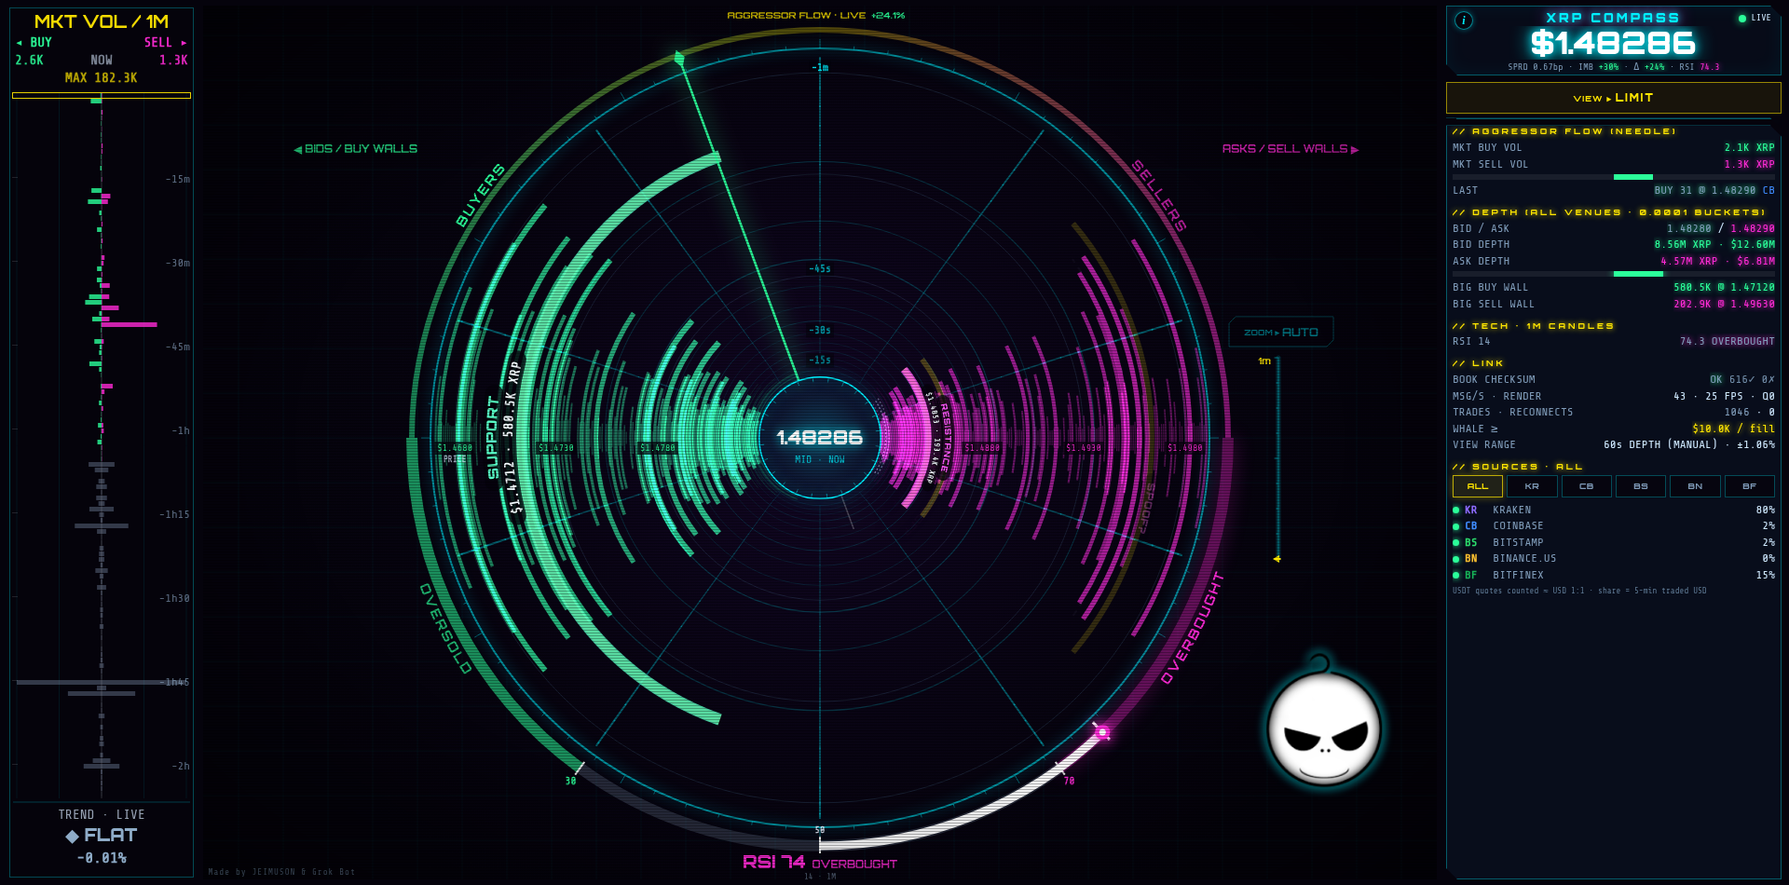
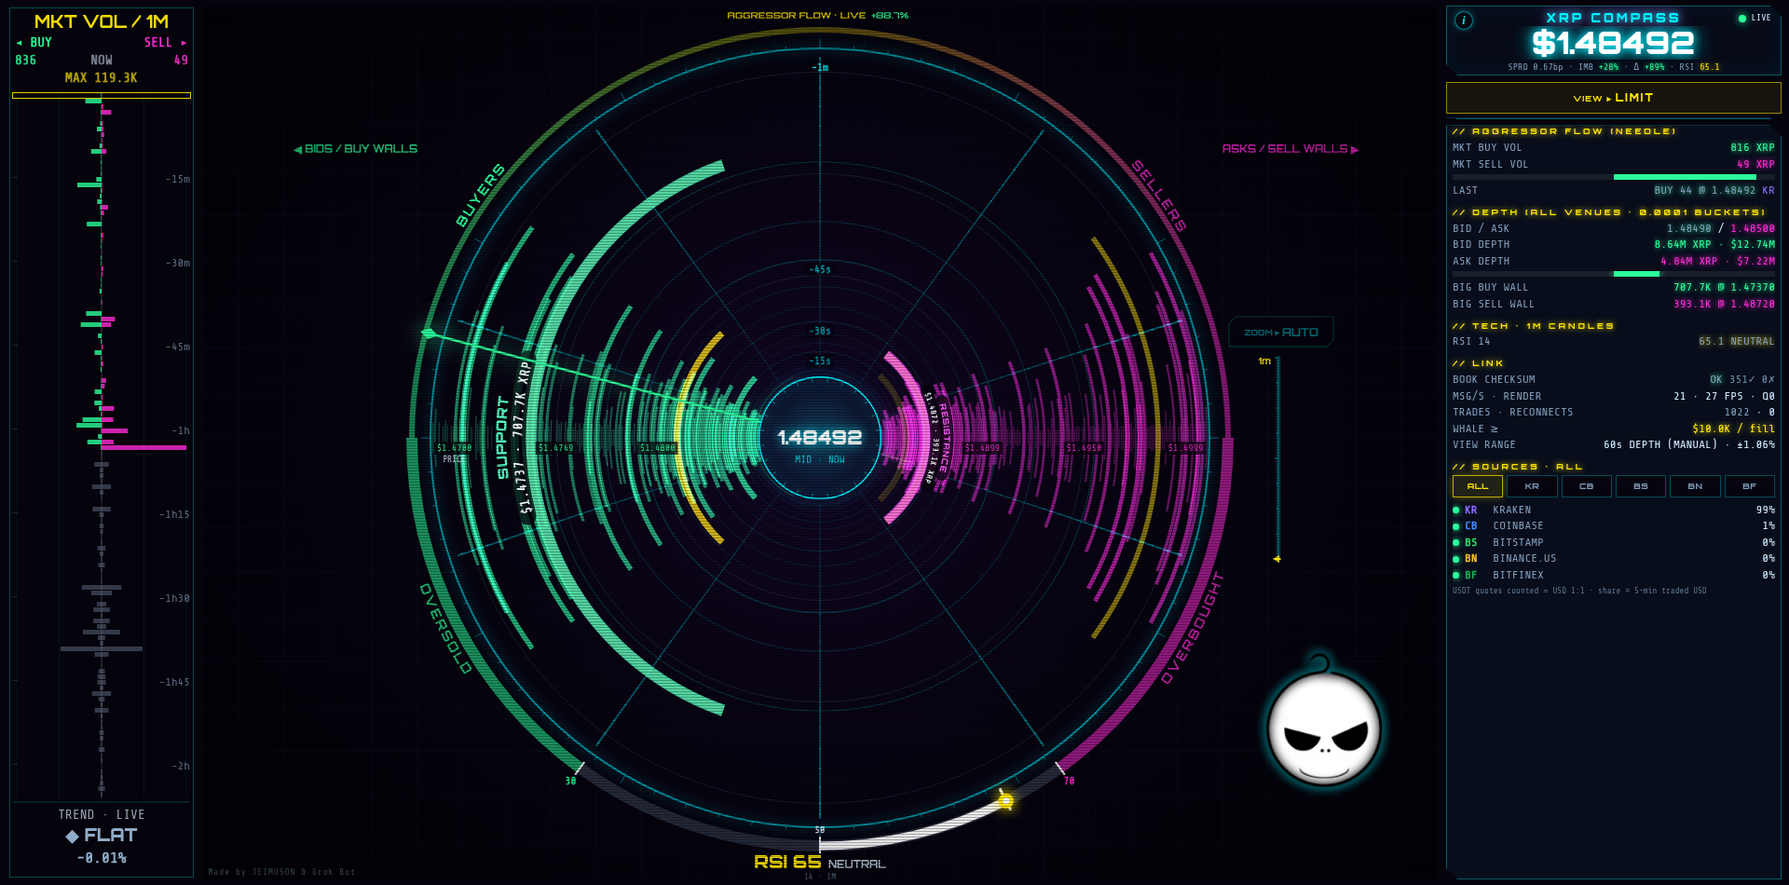
MARKET wall badges: nearest buy/sell wall only (build 20261002-1937)

diff --git a/index.html b/index.html
@@ -3,7 +3,7 @@
 <head>
 <meta charset="utf-8">
 <meta http-equiv="Cache-Control" content="no-cache, no-store, must-revalidate"><meta http-equiv="Pragma" content="no-cache"><meta http-equiv="Expires" content="0">
-<script>window.OFC_BUILD='20261002-1911';(function(){try{if(!/^https?:/.test(location.protocol))return;fetch(location.pathname+'?_='+Date.now(),{cache:'no-store'}).then(r=>r.text()).then(t=>{const m=t.match(/OFC_BUILD='([^']+)'/);if(m&&m[1]!==window.OFC_BUILD&&sessionStorage.getItem('ofcB')!==m[1]){sessionStorage.setItem('ofcB',m[1]);location.replace(location.pathname+'?v='+m[1]+location.hash);}}).catch(()=>{});}catch(e){}})();</script>
+<script>window.OFC_BUILD='20261002-1937';(function(){try{if(!/^https?:/.test(location.protocol))return;fetch(location.pathname+'?_='+Date.now(),{cache:'no-store'}).then(r=>r.text()).then(t=>{const m=t.match(/OFC_BUILD='([^']+)'/);if(m&&m[1]!==window.OFC_BUILD&&sessionStorage.getItem('ofcB')!==m[1]){sessionStorage.setItem('ofcB',m[1]);location.replace(location.pathname+'?v='+m[1]+location.hash);}}).catch(()=>{});}catch(e){}})();</script>
 <meta name="viewport" content="width=device-width,initial-scale=1,viewport-fit=cover,user-scalable=no">
 <meta name="theme-color" content="#05030c">
 <meta name="color-scheme" content="dark">
@@ -165,7 +165,7 @@ body.hublogo #top .logo{display:none}   /* mobile: logo lives in the compass hub
  <li>Trail swings <b>out</b> = price up, <b>in</b> = price down.</li>
  <li><b class="gr">Green</b> = buyers, <b class="rd">red</b> = sellers. Thicker trail = more volume.</li>
  <li><b>Flares</b> mark the spots with the heaviest trading.</li>
- <li><b>Ghost walls</b> = the biggest limit walls: glowing lines where trades at their price would land, or edge chevrons (top = above, bottom = below, with % distance) when outside the scale. They flare when hit, flash when eaten, go dashed when pulled.</li></ul>
+ <li><b>Wall badges</b> = the nearest big buy wall (bottom) and sell wall (top) with their distance from price; they pulse as price nears, flare when hit, show EATEN / PULLED and hand off to the next wall. In range, the wall also glows as a line across the spiral.</li></ul>
  <h3>LIMIT VIEW · ORDER-BOOK WALLS</h3>
  <ul><li>Arcs are <b>walls</b> of waiting orders: <b class="gr">buyers left</b>, <b class="rd">sellers right</b>.</li>
  <li>Distance from the middle = distance from the current price.</li>
@@ -1434,7 +1434,7 @@ function drawTrailFlares(now){
 }
 function trailDom(){ // current dominant aggressor side over the last ~10s of the trail (-1 sell .. +1 buy)
   let b=0,x=0;for(let a=0;a<Math.min(10,trail.length);a++){b+=trail[a].bs||0;x+=trail[a].ss||0;}return b+x>0?(b-x)/(b+x):0;}
-let GWS=new Map(),GWT=0;   // MARKET ghost-wall state
+let GWS=new Map(),GWT=0,GB={bid:null,ask:null};   // MARKET ghost-wall state
 function drawTrail(now){
   if(!trail.length||!dispMid)return;
   const span=dispMid*dispRange, px2=(RMAX-R0)/span, sEnd=FOCAL/(FOCAL+HIST_SEC);
@@ -1478,54 +1478,57 @@ function drawTrail(now){
   // in the spiral's own geometry: the locus where trades AT that price would land (same angle/depth/price mapping as the trail), over the
   // newest half-turn, under the spiral. Hidden when the price sits outside the current price scale (offset saturated).
   // Trades at the price -> flare; EATEN (classifier) -> short break flash; PULLED -> fades out as a dashed ghost.
-  if(BREADY&&sortedB.length&&sortedA.length){const tN=performance.now(),dnow=Date.now(),tol=BUCK/2+mid*0.00002;let maxq=1e-9;for(const L of [sortedB,sortedA])for(const x of L)if(x[1]>maxq)maxq=x[1];
+  if(BREADY&&sortedB.length&&sortedA.length){const tN=performance.now(),dnow=Date.now(),tol=BUCK/2+mid*0.00002;
     const sT0=FOCAL/(FOCAL+TURN*DZ),L0=Math.max(2,0.55*RMAX*KO*(1-sT0)),vis=X=>Math.abs((X-P0)/BSP*RMAX*KO*0.22/L0),live=new Set(),dt=GWT?Math.min(0.1,(tN-GWT)/1000):0;GWT=tN;
-    // top 3 per side >= 25% of the biggest level; each side's biggest wall always kept so every side is represented
-    for(const [side,lv] of [['bid',sortedB],['ask',sortedA]])topBySize(lv,3).forEach(([px,q],i)=>{if(i>0&&q<0.25*maxq)return;const k=side+'|'+px;live.add(k);
-      let G=GWS.get(k);if(!G){G={side,px,q,a:0,fl:0,br:-1e9,pull:-1e9,evT:tN};GWS.set(k,G);}G.q=q;});
-    for(const o of SPF.ev){if(o.kind!=='eaten'&&o.kind!=='pulled')continue;const G=GWS.get(o.side+'|'+o.px);if(G&&o.tt>G.evT){G.evT=o.tt;if(o.kind==='eaten')G.br=o.tt;else G.pull=o.tt;}}
-    const A2=Math.max(2,Math.min(AMAX,MWIN*0.5)),NC=8,sc=Math.max(1,RMAX/380),EDG={bid:[],ask:[]};
-    for(const [k,G] of GWS){const on=live.has(k),pulled=tN-G.pull<3000,brk=tN-G.br<800;
-      G.a+=((on&&!pulled?1:0)-G.a)*(1-Math.exp(-dt/(on?0.5:pulled?1.2:0.35)));
+    // significant = LIMIT topWalls rule (top 3 by size per side); track ONLY the nearest of those per side (by price distance)
+    const TW={bid:topBySize(sortedB,3),ask:topBySize(sortedA,3)};let maxq=1e-9;for(const sd of ['bid','ask'])for(const x of TW[sd])maxq=Math.max(maxq,x[1]);
+    for(const side of ['bid','ask']){let best=null;for(const [px,q] of TW[side]){const d=Math.abs(px-P0);if(!best||d<best.d)best={px,q,d};}if(!best)continue;
+      const k=side+'|'+best.px;live.add(k);let G=GWS.get(k);if(!G){G={side,px:best.px,q:best.q,a:0,fl:0,br:-1e9,pull:-1e9,evT:tN,off:0,wasT:tN};GWS.set(k,G);}G.q=best.q;G.off=0;G.wasT=tN;
+      const dp=Math.abs(best.px-P0)/P0*100;let B=GB[side];if(!B)B=GB[side]={dd:dp,a:0,rel:0,ev:null,evt:-1e9};B.px=best.px;B.q=best.q;B.dp=dp;B.G=G;}
+    // classifier events (EATEN/PULLED) hit the wall's line and, if it was this side's tracked wall, its badge; tracking hands off to the next nearest
+    for(const o of SPF.ev){if(o.kind!=='eaten'&&o.kind!=='pulled')continue;const G=GWS.get(o.side+'|'+o.px);if(G&&o.tt>G.evT){G.evT=o.tt;if(o.kind==='eaten')G.br=o.tt;else G.pull=o.tt;
+      const B=GB[G.side];if(B&&o.tt-G.wasT<8000){B.ev=o.kind;B.evt=o.tt;}}}
+    const A2=Math.max(2,Math.min(AMAX,MWIN*0.5)),NC=8,sc=Math.max(1,RMAX/330);
+    for(const [k,G] of GWS){const on=live.has(k);if(!on&&!G.off)G.off=tN;const pulled=tN-G.pull<3000,brk=tN-G.br<800;
+      G.a+=((on&&!pulled?1:0)-G.a)*(1-Math.exp(-dt/(on?0.5:pulled?1.2:0.45)));
       let hv=0;for(let i=trades.length-1;i>=0;i--){const t=trades[i];if(t.t<dnow-1200)break;if((G.side==='bid'?t.side==='sell':t.side==='buy')&&Math.abs(t.px-G.px)<=tol)hv+=t.qty;}
       const ft=Math.min(1,hv/(0.08*G.q+1e-9));G.fl+=(ft-G.fl)*(ft>G.fl?0.35:1-Math.exp(-dt/0.6));
-      if(!on&&G.a<0.01&&!brk&&!pulled){GWS.delete(k);continue;}
-      const v=vis(G.px),va=Math.max(0,Math.min(1,(1.3-v)/0.3));G.v=v;G.A=0;G.E=0;
-      const rel=Math.sqrt(Math.min(1,G.q/maxq)),bu=brk?1-(tN-G.br)/800:0,c=G.side==='bid'?COL.bid:COL.ask;
-      const A0=Math.max(G.a,pulled?Math.max(0,1-(tN-G.pull)/3000):0,bu),pd=pulled&&!on;
+      if(!on&&tN-G.off>6000&&!brk&&!pulled){GWS.delete(k);continue;}   // kept a few s after hand-off so a late EATEN/PULLED verdict still lands
+      const v=vis(G.px),va=Math.max(0,Math.min(1,(1.3-v)/0.3));G.v=v;G.A=0;if(va<=0)continue;
+      const rel=Math.sqrt(Math.min(1,G.q/maxq)),bu=brk?1-(tN-G.br)/800:0,c=G.side==='bid'?COL.bid:COL.ask,pd=pulled&&!on;
+      const A=va*Math.max(G.a,pulled?Math.max(0,1-(tN-G.pull)/3000):0,bu);G.A=A;if(A<=0.01)continue;
       const col=pd?[215,200,255]:brk?[Math.min(255,c[0]+110),Math.min(255,c[1]+110),Math.min(255,c[2]+110)]:c;
-      if(va<1&&A0>0.01)EDG[(G.px>=P0)?'ask':'bid'].push({G,A:A0*(1-va),rel,bu,pd,col,c});   // outside the scale -> clamped edge chevron
-      const A=va*A0;G.A=A;if(A<=0.01)continue;
       const pts=[];for(let f=0;f<=A2+1e-6;f+=0.5)pts.push([f,pt(f,G.px)]);
       ctx.save();ctx.lineCap='round';
       if(pd){ctx.setLineDash([6*sc,6*sc]);ctx.lineDashOffset=-tN/45;}else if(brk){ctx.setLineDash([10*(1-bu)+3,7+12*(1-bu)]);}
       const lw=Math.max(2,(1.5+3*rel+4*G.fl+6*bu)*sc);
-      for(const [wm,am,gl] of [[3.2,0.22,0],[1,1,1]]){ctx.lineWidth=lw*wm;   // soft glow band, then the core line
+      for(const [wm,am,gl] of [[3.2,0.22,0],[1,1,1]]){ctx.lineWidth=lw*wm;   // soft glow band, then the core line (under the spiral)
         if(gl&&Q>0){ctx.shadowColor=rgba(c,0.9);ctx.shadowBlur=(6+18*Math.max(G.fl,bu))*sc;}
         for(let ci=0;ci<NC;ci++){const i0=Math.floor(ci*(pts.length-1)/NC),i1=Math.floor((ci+1)*(pts.length-1)/NC);if(i1<=i0)continue;const fm=pts[(i0+i1)>>1][0],um=pts[(i0+i1)>>1][1].u;
           const al=am*A*(0.3+0.3*rel+0.45*G.fl+0.6*bu)*Math.pow(um,0.5)*Math.pow(Math.max(0,1-fm/A2),0.45);if(al<=0.004)continue;
           ctx.strokeStyle=rgba(col,Math.min(0.95,al).toFixed(3));ctx.beginPath();ctx.moveTo(pts[i0][1].x,pts[i0][1].y);for(let i=i0+1;i<=i1;i++)ctx.lineTo(pts[i][1].x,pts[i][1].y);ctx.stroke();}}
-      {const ti=Math.min(pts.length-1,Math.max(1,Math.round(pts.length*0.18))),p=pts[ti][1];   // small size tag on the line
-        ctx.setLineDash([]);ctx.shadowBlur=0;ctx.font=`${Math.round(9*sc)}px "Share Tech Mono",monospace`;ctx.textAlign='center';ctx.textBaseline='middle';
-        ctx.fillStyle=rgba(col,Math.min(0.85,A*(0.55+0.3*rel+0.3*G.fl)).toFixed(3));ctx.fillText(fmtUSD(G.q*G.px),p.x,p.y-8*sc);}
       ctx.restore();}
-    // clamped edge indicators: walls beyond the scale sit as glowing chevrons just inside the outer ring,
-    // asks/above-price at the top edge (right of NOW), bids/below-price at the bottom edge; nearest first; brightness falls with distance
-    for(const sd of ['ask','bid']){const L=EDG[sd].sort((a,b)=>Math.abs(a.G.px-P0)-Math.abs(b.G.px-P0)),up=sd==='ask',step=Math.max(0.075,28/RMAX),a0=Math.max(0.16,36/RMAX);
-      L.forEach((o,k)=>{const {G,rel,bu,pd,col,c}=o,d=(G.px-P0)/P0*100,ad=Math.abs(d),fall=0.5+0.5*Math.exp(-ad/0.8);
-        const al=Math.min(1,o.A*(0.55+0.35*rel+0.5*G.fl+0.6*bu)*fall*(k===0?1:0.8));G.E=+al.toFixed(2);if(al<0.02)return;
-        const th=up?-Math.PI/2+a0+step*k:Math.PI/2+a0+step*k,nx=Math.cos(th),ny=Math.sin(th),tx=-ny,ty=nx,r=RMAX*0.95,cx=CX+nx*r,cy=CY+ny*r;
-        const sz=(5+5*rel+4*G.fl+5*bu)*sc;
-        ctx.save();if(Q>0){ctx.shadowColor=rgba(c,0.95);ctx.shadowBlur=(8+16*Math.max(G.fl,bu))*sc;}
-        const P=(a,b)=>[cx+nx*a+tx*b,cy+ny*a+ty*b],T=P(sz,0),W1=P(-sz*0.45,sz*0.95),N=P(-sz*0.05,0),W2=P(-sz*0.45,-sz*0.95);
-        const path=()=>{ctx.beginPath();ctx.moveTo(...T);ctx.lineTo(...W1);ctx.lineTo(...N);ctx.lineTo(...W2);ctx.closePath();};
-        if(pd){ctx.setLineDash([3*sc,3*sc]);ctx.lineWidth=1.4*sc;ctx.strokeStyle=rgba(col,al.toFixed(3));path();ctx.stroke();}
-        else{ctx.fillStyle=rgba(col,(al*0.85).toFixed(3));path();ctx.fill();ctx.lineWidth=1*sc;ctx.strokeStyle=rgba([Math.min(255,col[0]+70),Math.min(255,col[1]+70),Math.min(255,col[2]+70)],al.toFixed(3));ctx.stroke();}
-        if(bu>0){ctx.lineWidth=2*sc;ctx.strokeStyle=rgba([255,255,255],(bu*0.8).toFixed(3));ctx.beginPath();ctx.arc(cx,cy,sz*(1.2+1.6*(1-bu)),0,Math.PI*2);ctx.stroke();}
-        if(k===0||RMAX>250){ctx.shadowBlur=0;ctx.font=`${Math.round(9*sc)}px "Share Tech Mono",monospace`;ctx.textAlign='center';ctx.textBaseline='middle';
-          const txt=(d>=0?'+':'\u2212')+ad.toFixed(ad<1?2:1)+'%'+(RMAX>250?' '+fmtUSD(G.q*G.px):''),tp=P(-(5+5*rel)*sc-9*sc-k*11*sc,0);
-          ctx.fillStyle=rgba(col,Math.min(0.95,al+0.1).toFixed(3));ctx.fillText(txt,tp[0],tp[1]);}
-        ctx.restore();});}
+    // one badge per side just inside the outer ring: sell wall top (right of NOW), buy wall bottom (left); distance inside the capsule
+    const rr=(x,y,w,h)=>{const r=h/2;ctx.beginPath();ctx.moveTo(x+r,y);ctx.lineTo(x+w-r,y);ctx.arc(x+w-r,y+r,r,-Math.PI/2,Math.PI/2);ctx.lineTo(x+r,y+h);ctx.arc(x+r,y+r,r,Math.PI/2,Math.PI*1.5);ctx.closePath();};
+    for(const side of ['ask','bid']){const B=GB[side];if(!B||!B.G)continue;const G=B.G,up=side==='ask',c=up?COL.ask:COL.bid;
+      B.dd+=(B.dp-B.dd)*(1-Math.exp(-dt/0.25));B.a+=(1-B.a)*(1-Math.exp(-dt/0.4));B.rel+=(Math.sqrt(Math.min(1,B.q/maxq))-B.rel)*(1-Math.exp(-dt/0.4));
+      const evA=B.ev&&tN-B.evt<1400?1-(tN-B.evt)/1400:0,ek=evA>0?B.ev:null,fl=G.fl||0;
+      const prox=Math.max(0,Math.min(1,1-((G.v||9)-0.6)/4)),pul=0.5+0.5*Math.sin(tN/1000*Math.PI*(1.2+2.8*prox));   // pulse quickens/strengthens as price nears
+      const s2=sc*(0.9+0.25*B.rel),h=Math.round(18*s2),fz=Math.round(11.5*s2);ctx.font=`${fz}px "Share Tech Mono",monospace`;
+      const txt=ek?(ek==='eaten'?'EATEN':'PULLED'):B.dd.toFixed(B.dd<1?2:1)+'%',w=Math.ceil(ctx.measureText(txt).width+h*1.45);
+      const R=RMAX*0.935-h*0.6,off=Math.min(R*0.6,15*sc+w/2),yy=Math.sqrt(R*R-off*off),x=up?CX+off:CX-off,y=up?CY-yy:CY+yy,x0=x-w/2,y0=y-h/2;
+      const col=ek==='pulled'?[215,200,255]:c,hi=[Math.min(255,col[0]+90),Math.min(255,col[1]+90),Math.min(255,col[2]+90)];
+      const glow=(0.35+0.45*B.rel)*(1+0.9*prox*pul)+1.3*fl+1.2*evA;
+      ctx.save();ctx.globalAlpha=B.a;ctx.textAlign='left';ctx.textBaseline='middle';
+      if(Q>0){ctx.shadowColor=rgba(col,0.9);ctx.shadowBlur=(5+9*glow)*sc;}
+      ctx.fillStyle='rgba(4,8,18,0.85)';rr(x0,y0,w,h);ctx.fill();ctx.shadowBlur=0;
+      ctx.fillStyle=ek==='eaten'?rgba([255,255,255],(0.55*evA).toFixed(3)):rgba(col,Math.min(0.6,0.1+0.12*B.rel+0.3*fl+0.12*prox*pul).toFixed(3));rr(x0,y0,w,h);ctx.fill();
+      if(ek==='pulled')ctx.setLineDash([3*sc,2.5*sc]);ctx.lineWidth=1.4*s2;ctx.strokeStyle=rgba(hi,Math.min(1,0.55+0.3*B.rel+0.4*fl).toFixed(3));rr(x0,y0,w,h);ctx.stroke();ctx.setLineDash([]);
+      if(ek==='eaten'){const g=(1-evA)*12*sc;ctx.lineWidth=2*sc;ctx.strokeStyle=rgba([255,255,255],(0.8*evA).toFixed(3));rr(x0-g,y0-g,w+2*g,h+2*g);ctx.stroke();}
+      {const ax=x0+h*0.6,ay=y,a=h*0.26;ctx.fillStyle=rgba(hi,0.95);ctx.beginPath();   // arrow: up for the sell wall above, down for the buy wall below
+        if(up){ctx.moveTo(ax,ay-a);ctx.lineTo(ax+a*1.1,ay+a*0.75);ctx.lineTo(ax-a*1.1,ay+a*0.75);}else{ctx.moveTo(ax,ay+a);ctx.lineTo(ax+a*1.1,ay-a*0.75);ctx.lineTo(ax-a*1.1,ay-a*0.75);}ctx.closePath();ctx.fill();}
+      ctx.fillStyle=rgba(ek==='eaten'?[255,255,255]:hi,0.97);ctx.fillText(txt,x0+h*1.05,y+0.5);
+      B.x=Math.round(x);B.y=Math.round(y);B.w=w;B.h=h;ctx.restore();}
   }
   // centreline spine: thin continuous track that fades into the vanishing point
   ctx.lineWidth=1;
@@ -1758,7 +1761,7 @@ function frame(){
 connect();seedREST();
 requestAnimationFrame(frame);
 document.addEventListener('visibilitychange',()=>{if(!document.hidden&&(!ws||ws.readyState>1)){backoff=1000;connect();}});
-window.__ofc={get gw(){return [...GWS.values()].map(G=>({s:G.side,px:G.px,a:+G.a.toFixed(2),fl:+G.fl.toFixed(2),br:performance.now()-G.br<800,pull:performance.now()-G.pull<3000,v:+(G.v||0).toFixed(2),A:+(G.A||0).toFixed(2),E:G.E||0}))},simEat(ms,kind,hold,px){EAT={t0:Date.now(),ms,kind:kind||'eat',hold:hold==null?0:hold,px:px||0,q0:0,lq:null};},get spoof(){return {n:{...SPF.n},trk:SPF.trk.size,ev:SPF.ev.slice(-6).map(o=>({k:o.kind,s:o.side,px:o.px,q0:+o.q0.toFixed(1),q1:+o.q1.toFixed(1),ratio:o.ratio,spoof:o.spoof,big:o.big,ven:o.ven}))}},get eat(){const n=performance.now();return EAT&&{px:EAT.px,q0:EAT.q0,ref:REFQ,cp:history.filter((h,i)=>i%8===0&&(n-h.t)/1000<=LWIN).map(h=>{const e=h.b.find(x=>x[0]===EAT.px);return e?[Math.round((n-h.t)/1000),+levelSpan(e[1],REFQ||h.maxq).toFixed(3)]:null;}).filter(Boolean)}},get mt(){return {w:+MT.w.toFixed(1),q:+MT.q.toFixed(2),z:+MT.z.toFixed(2),sg:MT.sg,burst:burst.on}},get lt(){return {w:+LT.w.toFixed(1),rho:+LT.rho.toFixed(2),lwin:+LWIN.toFixed(1),burst:burst.on}},get keyWalls(){return VIEW==='limit'?{...KEYW,nSig:{bid:topWalls.bid.length,ask:topWalls.ask.length},marks:PLBL.map(q=>q.txt)}:null},simFlat(){SIM={on:true,base:mid,t0:0,dir:0,amp:0,ramp:1};},simMove(dir,frac,ramp){SIM.t0=Date.now();SIM.dir=dir;SIM.amp=frac*SIM.base;SIM.ramp=ramp;},get resp(){const v=proj(HIST_SEC),m=proj(HIST_SEC*0.4);return {tw:+(TWIST_MAX*VSP.w*180/Math.PI).toFixed(2),vp:+(v.y-CY).toFixed(1),vm:+(m.y-CY).toFixed(1),o3:+((window.__ofcR||{}).o3||0).toFixed(1),o8:+((window.__ofcR||{}).o8||0).toFixed(1),mw:+MWIN.toFixed(1),dr:dispRange,pr:pathRef}},get bp(){return BP.length},autoOff(){pillT=0;if(rangeAuto)pillTap();},get dr(){return dispRange},get hubLogo(){return !WIDE&&LOGO.complete&&LOGO.naturalWidth>0},get hdrLogo(){const e=document.querySelector('#top .logo');return !!e&&getComputedStyle(e).display!=='none'},get flares(){return VIEW==='market'?[...FLR.entries()].map(([k,F])=>{const p=F.dx!=null?{x:F.dx,y:F.dy}:null;return {k,T:F.T,tT:trailT,st:trailStep,w:+F.w.toFixed(2),on:!!F.on,side:F.c===COL.bid?'bid':'ask',x:p?Math.round(p.x):null,y:p?Math.round(p.y):null};}):null},winTo(S){intro=null;setAuto(false);syncZA();let lo=0,hi=1;const f=u=>mWinOf(zR(u));const dec=f(0)>f(1);for(let i=0;i<40;i++){const m=(lo+hi)/2;if((f(m)>S)===dec)lo=m;else hi=m;}rangeFrac=zR((lo+hi)/2);return f((lo+hi)/2);},get vring(){if(VIEW!=='market')return null;const p=proj(HIST_SEC);return {full:+(RMAX*p.s).toFixed(1),r:+(RMAX*p.s).toFixed(1),x:Math.round(p.x),y:Math.round(p.y),R0:Math.round(R0)}},get twist(){return VIEW==='market'?+(TWIST_MAX*VSP.w*180/Math.PI).toFixed(1):0},get spin(){return {w:+VSP.w.toFixed(3),ph:+VSP.ph.toFixed(3)}},zManual(){intro=null;setAuto(false);syncZA();},get burst(){return {...burst,now:Date.now()}},simBurst(usd){const px=trades.length?trades[trades.length-1].px:mid,n=Date.now();for(let k=0;k<8;k++)trades.push({t:n-(7-k)*300,side:k%2?'sell':'buy',qty:usd/8/px,px,v:'kraken'});trailDirty=true;},get auto(){return rangeAuto},zAuto(){intro=null;setAuto(true);syncZA();},zIn(){intro=null;setAuto(false);rangeFrac=zR(1);syncZA();},get mwin(){return +MWIN.toFixed(1)},get lwin(){return +LWIN.toFixed(1)},get prange(){return PRANGE},get disp(){return dispRange},get plbl(){return PLBL.map(q=>q.txt)},get hubTxt(){return mid?hubTxt():null},get head(){return {x:Math.round(TRHEAD.x),y:Math.round(TRHEAD.y),CX,CY,R0:Math.round(R0),RMAX:Math.round(RMAX)}},get logo(){const g=logoGeom();return g&&{x:Math.round(g.x),y:Math.round(g.y),S:g.S,CX,CY,RMAX,W,H,Z:zbarGeom()}},get ven(){return Object.fromEntries(Object.entries(VEN).map(([k,v])=>[k,{st:v.st,share:+v.share.toFixed(3),books:BOOKS.filter(B=>B.v===k).map(B=>({k:B.k,ready:B.ready,n:B.b.size+B.a.size,ck:B.ckOk,ckBad:B.ckBad,resyncs:B.resyncs}))}]))},get src(){return SRC},setSource,get comb(){return {ready:BREADY,mid,bestBid,bestAsk,nb:sortedB.length,na:sortedA.length}},get raw(){return RAW.length},get flow(){const f=flow(30);return {b:Math.round(f.b),s:Math.round(f.s),r:+f.r.toFixed(3)}},get trendW(){return trendWin()},get win(){return winSec},get heatN(){return Object.fromEntries(Object.entries(HEATS).map(([w,H])=>[w,H.m.size]))},get intro(){return intro},book,get mid(){return mid},get ck(){return {ckOk,ckBad,ckLast}},get trades(){return tradeCount},get bubbles(){return bubbles.length},get hist(){return history.length},get ind(){return ind},get candles(){return candles.size},get dir(){return INBOUND?'in':'out'},get view(){return VIEW},get layout(){return {W,H,CX,CY,RMAX,R0,WIDE}},get tunnel(){const far=proj(HIST_SEC);return {FOCAL,farScale:far.s,farY:far.y-CY,dispRange,fitFrac,rangeAuto,RMAX}},zoom(f){setAuto(false);rangeFrac=Math.min(0.08,Math.max(0.0005,rangeFrac*f));},autoZoom(){setAuto(true);},get autoOn(){return rangeAuto},get zgeom(){return zbarGeom()},get conn(){return connState},get fps(){return FPS},get q(){return Q},get rc(){return reconnects},forceDrop(){ws&&ws.close();}};
+window.__ofc={get gw(){const n=performance.now(),bd=B=>B&&{px:B.px,dd:+B.dd.toFixed(3),a:+B.a.toFixed(2),ev:B.ev&&n-B.evt<1400?B.ev:null,x:B.x,y:B.y,w:B.w,h:B.h};return {bid:bd(GB.bid),ask:bd(GB.ask),lines:[...GWS.values()].map(G=>({s:G.side,px:G.px,a:+G.a.toFixed(2),fl:+G.fl.toFixed(2),br:n-G.br<800,pull:n-G.pull<3000,v:+(G.v||0).toFixed(2),A:+(G.A||0).toFixed(2)}))}},simEat(ms,kind,hold,px){EAT={t0:Date.now(),ms,kind:kind||'eat',hold:hold==null?0:hold,px:px||0,q0:0,lq:null};},get spoof(){return {n:{...SPF.n},trk:SPF.trk.size,ev:SPF.ev.slice(-6).map(o=>({k:o.kind,s:o.side,px:o.px,q0:+o.q0.toFixed(1),q1:+o.q1.toFixed(1),ratio:o.ratio,spoof:o.spoof,big:o.big,ven:o.ven}))}},get eat(){const n=performance.now();return EAT&&{px:EAT.px,q0:EAT.q0,ref:REFQ,cp:history.filter((h,i)=>i%8===0&&(n-h.t)/1000<=LWIN).map(h=>{const e=h.b.find(x=>x[0]===EAT.px);return e?[Math.round((n-h.t)/1000),+levelSpan(e[1],REFQ||h.maxq).toFixed(3)]:null;}).filter(Boolean)}},get mt(){return {w:+MT.w.toFixed(1),q:+MT.q.toFixed(2),z:+MT.z.toFixed(2),sg:MT.sg,burst:burst.on}},get lt(){return {w:+LT.w.toFixed(1),rho:+LT.rho.toFixed(2),lwin:+LWIN.toFixed(1),burst:burst.on}},get keyWalls(){return VIEW==='limit'?{...KEYW,nSig:{bid:topWalls.bid.length,ask:topWalls.ask.length},marks:PLBL.map(q=>q.txt)}:null},simFlat(){SIM={on:true,base:mid,t0:0,dir:0,amp:0,ramp:1};},simMove(dir,frac,ramp){SIM.t0=Date.now();SIM.dir=dir;SIM.amp=frac*SIM.base;SIM.ramp=ramp;},get resp(){const v=proj(HIST_SEC),m=proj(HIST_SEC*0.4);return {tw:+(TWIST_MAX*VSP.w*180/Math.PI).toFixed(2),vp:+(v.y-CY).toFixed(1),vm:+(m.y-CY).toFixed(1),o3:+((window.__ofcR||{}).o3||0).toFixed(1),o8:+((window.__ofcR||{}).o8||0).toFixed(1),mw:+MWIN.toFixed(1),dr:dispRange,pr:pathRef}},get bp(){return BP.length},autoOff(){pillT=0;if(rangeAuto)pillTap();},get dr(){return dispRange},get hubLogo(){return !WIDE&&LOGO.complete&&LOGO.naturalWidth>0},get hdrLogo(){const e=document.querySelector('#top .logo');return !!e&&getComputedStyle(e).display!=='none'},get flares(){return VIEW==='market'?[...FLR.entries()].map(([k,F])=>{const p=F.dx!=null?{x:F.dx,y:F.dy}:null;return {k,T:F.T,tT:trailT,st:trailStep,w:+F.w.toFixed(2),on:!!F.on,side:F.c===COL.bid?'bid':'ask',x:p?Math.round(p.x):null,y:p?Math.round(p.y):null};}):null},winTo(S){intro=null;setAuto(false);syncZA();let lo=0,hi=1;const f=u=>mWinOf(zR(u));const dec=f(0)>f(1);for(let i=0;i<40;i++){const m=(lo+hi)/2;if((f(m)>S)===dec)lo=m;else hi=m;}rangeFrac=zR((lo+hi)/2);return f((lo+hi)/2);},get vring(){if(VIEW!=='market')return null;const p=proj(HIST_SEC);return {full:+(RMAX*p.s).toFixed(1),r:+(RMAX*p.s).toFixed(1),x:Math.round(p.x),y:Math.round(p.y),R0:Math.round(R0)}},get twist(){return VIEW==='market'?+(TWIST_MAX*VSP.w*180/Math.PI).toFixed(1):0},get spin(){return {w:+VSP.w.toFixed(3),ph:+VSP.ph.toFixed(3)}},zManual(){intro=null;setAuto(false);syncZA();},get burst(){return {...burst,now:Date.now()}},simBurst(usd){const px=trades.length?trades[trades.length-1].px:mid,n=Date.now();for(let k=0;k<8;k++)trades.push({t:n-(7-k)*300,side:k%2?'sell':'buy',qty:usd/8/px,px,v:'kraken'});trailDirty=true;},get auto(){return rangeAuto},zAuto(){intro=null;setAuto(true);syncZA();},zIn(){intro=null;setAuto(false);rangeFrac=zR(1);syncZA();},get mwin(){return +MWIN.toFixed(1)},get lwin(){return +LWIN.toFixed(1)},get prange(){return PRANGE},get disp(){return dispRange},get plbl(){return PLBL.map(q=>q.txt)},get hubTxt(){return mid?hubTxt():null},get head(){return {x:Math.round(TRHEAD.x),y:Math.round(TRHEAD.y),CX,CY,R0:Math.round(R0),RMAX:Math.round(RMAX)}},get logo(){const g=logoGeom();return g&&{x:Math.round(g.x),y:Math.round(g.y),S:g.S,CX,CY,RMAX,W,H,Z:zbarGeom()}},get ven(){return Object.fromEntries(Object.entries(VEN).map(([k,v])=>[k,{st:v.st,share:+v.share.toFixed(3),books:BOOKS.filter(B=>B.v===k).map(B=>({k:B.k,ready:B.ready,n:B.b.size+B.a.size,ck:B.ckOk,ckBad:B.ckBad,resyncs:B.resyncs}))}]))},get src(){return SRC},setSource,get comb(){return {ready:BREADY,mid,bestBid,bestAsk,nb:sortedB.length,na:sortedA.length}},get raw(){return RAW.length},get flow(){const f=flow(30);return {b:Math.round(f.b),s:Math.round(f.s),r:+f.r.toFixed(3)}},get trendW(){return trendWin()},get win(){return winSec},get heatN(){return Object.fromEntries(Object.entries(HEATS).map(([w,H])=>[w,H.m.size]))},get intro(){return intro},book,get mid(){return mid},get ck(){return {ckOk,ckBad,ckLast}},get trades(){return tradeCount},get bubbles(){return bubbles.length},get hist(){return history.length},get ind(){return ind},get candles(){return candles.size},get dir(){return INBOUND?'in':'out'},get view(){return VIEW},get layout(){return {W,H,CX,CY,RMAX,R0,WIDE}},get tunnel(){const far=proj(HIST_SEC);return {FOCAL,farScale:far.s,farY:far.y-CY,dispRange,fitFrac,rangeAuto,RMAX}},zoom(f){setAuto(false);rangeFrac=Math.min(0.08,Math.max(0.0005,rangeFrac*f));},autoZoom(){setAuto(true);},get autoOn(){return rangeAuto},get zgeom(){return zbarGeom()},get conn(){return connState},get fps(){return FPS},get q(){return Q},get rc(){return reconnects},forceDrop(){ws&&ws.close();}};
 })();
 // ---------------- INFO overlay: what am I looking at? (✕ / tap outside / Esc) ----------------
 (function(){const I=document.getElementById('info'),B=document.getElementById('infoBtn');if(!I||!B)return;
